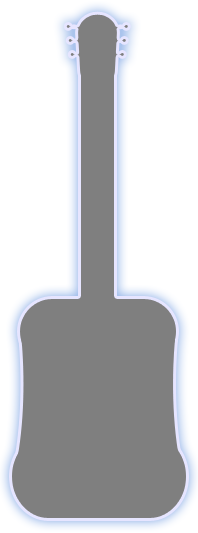
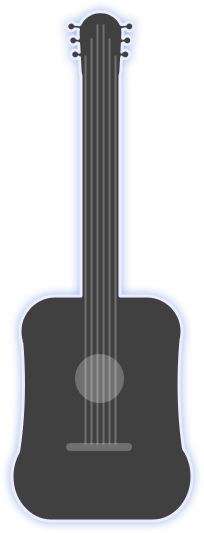
Added small graphical changes to the Guitar

diff --git a/guitarSpace.cs b/guitarSpace.cs
@@ -25,7 +25,6 @@ namespace Moto
             if (!insideStrumArea.ContainsKey(player.skeleton.TrackingId)) {
                 insideStrumArea.Add(player.skeleton.TrackingId, false);
             }
-            
         }
 
         private double doPythag(double a, double b)
@@ -68,11 +67,12 @@ namespace Moto
                 fretHand = JointType.HandRight;
             }
 
-            player.instrumentImage.Source = guitarImage(player);
+            player.instrumentOverlay[0].Source = guitarImage(player);
 
             FrameworkElement image = player.instrumentImage;
 
             image.Height = scaledWidth(player, player.instrument);
+            player.instrumentOverlay[0].Height = image.Height;
 
             ColorImagePoint point = MainWindow.sensor.MapSkeletonPointToColor(player.skeleton.Joints[JointType.Spine].Position, ColorImageFormat.RgbResolution640x480Fps30);
 
@@ -112,6 +112,12 @@ namespace Moto
             Canvas.SetTop(image, point.Y - centerY);
 
             image.RenderTransform = new RotateTransform(angle, centerX, centerY);
+
+            //Grab the image reference and move it to the correct place
+            Canvas.SetLeft(player.instrumentOverlay[0], point.X - centerX);
+            Canvas.SetTop(player.instrumentOverlay[0], point.Y - centerY);
+
+            player.instrumentOverlay[0].RenderTransform = new RotateTransform(angle, centerX, centerY);
         }
 
         public void checkStrum(MainWindow.Player player, JointType joint)
@@ -191,19 +197,19 @@ namespace Moto
 
             if (neckDist > 0.7)
             {
-                return new BitmapImage(new Uri("images/guitar-green.png", UriKind.Relative));
+                return new BitmapImage(new Uri("images/guitar-overlays/green.png", UriKind.Relative));
             }
             else if (neckDist > 0.55)
             {
-                return new BitmapImage(new Uri("images/guitar-red.png", UriKind.Relative));
+                return new BitmapImage(new Uri("images/guitar-overlays/red.png", UriKind.Relative));
             }
             else if (neckDist > 0.4)
             {
-                return new BitmapImage(new Uri("images/guitar-yellow.png", UriKind.Relative));
+                return new BitmapImage(new Uri("images/guitar-overlays/yellow.png", UriKind.Relative));
             }
             else
             {
-                return new BitmapImage(new Uri("images/guitar-blue.png", UriKind.Relative));
+                return new BitmapImage(new Uri("images/guitar-overlays/blue.png", UriKind.Relative));
             }
         }
     }

diff --git a/instrument.xaml.cs b/instrument.xaml.cs
@@ -511,6 +511,15 @@ namespace Moto
             Image image = new Image();
             //image.Name = "image" + aSkeleton.TrackingId.ToString();
 
+            //Overlay
+            if (player.instrumentOverlay.ContainsKey(0))
+            {
+                MainCanvas.Children.Remove(player.instrumentOverlay[0]);
+                player.instrumentOverlay.Remove(0);
+            }
+
+            player.instrumentOverlay.Add(0, new Image());
+
             switch (instrument)
             {
                 case instrumentList.Drums:
@@ -530,6 +539,7 @@ namespace Moto
             }
 
             MainCanvas.Children.Add(image);
+            MainCanvas.Children.Add(player.instrumentOverlay[0]);
 
             player.instrumentImage = image;
 
